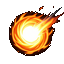
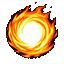
deploy: 26ce8c5fc82ace93dfbd7efdbb642328b0fd8cad

diff --git a/game.js b/game.js
@@ -3445,7 +3445,7 @@
       const finalDmg = Math.max(1, Math.round(dmg * resist));
       mb.bossHp -= finalDmg;
       // Projektil
-      spawnProjectileEffect(null, false, false, ATTACK_TYPES.CASTER, schoolId);
+      spawnProjectileEffect(null, false, false, ATTACK_TYPES.CASTER, spellId);
       const dmgEl = $('mbDamageText');
       if (dmgEl) {
         dmgEl.textContent = `${school} -${finalDmg}`;
@@ -4303,7 +4303,7 @@
     return { c1:'#bbb', c2:'#aaa', rgb:'187,187,187' };
   }
 
-  function spawnProjectileEffect(dir, targetIsPlayer, isCrit, attackType, schoolId) {
+  function spawnProjectileEffect(dir, targetIsPlayer, isCrit, attackType, spellId) {
     const arena = $('mbArena');
     if (!arena) return;
     const rect = arena.getBoundingClientRect();
@@ -4335,17 +4335,21 @@
     const schoolColor = getSchoolColors(targetIsPlayer);
     const rgb = schoolColor.rgb;
 
-    // Vybrat PNG projektil podle schoolId
+    // Vybrat PNG projektil podle spellId
     let projImg = 'arcane.png';
     if (targetIsPlayer && attackType === ATTACK_TYPES.CASTER) {
       projImg = 'shadow.png'; // nepřátelský caster = shadow
     } else if (!targetIsPlayer) {
-      // Hráčův projektil — podle schoolId parametru
-      if (schoolId === 'fire') projImg = 'fireball.png';
-      else if (schoolId === 'ice') projImg = 'frostbolt.png';
-      else if (schoolId === 'lightning') projImg = 'lightning.png';
-      else if (schoolId === 'nature') projImg = 'nature.png';
-      else if (schoolId === 'physical') projImg = 'lightning.png';
+      // Hráčův projektil — podle spellId
+      if (spellId === 'firebolt') projImg = 'firebolt.png';
+      else if (spellId === 'fireball') projImg = 'fireball.png';
+      else if (spellId === 'fireblast') projImg = 'fireblast.png';
+      else if (spellId === 'icebolt') projImg = 'icebolt.png';
+      else if (spellId === 'frostbolt') projImg = 'frostbolt.png';
+      else if (spellId === 'blizzard') projImg = 'blizzard.png';
+      else if (spellId === 'lightningBolt') projImg = 'lightningBolt.png';
+      else if (spellId === 'chainLightning') projImg = 'chainLightning.png';
+      else if (spellId === 'thunderStorm') projImg = 'thunderStorm.png';
     }
 
     const size = isCrit ? 48 : 36;

diff --git a/sw.js b/sw.js
@@ -79,6 +79,10 @@ const ASSET_FILES = [
   '/assets/projectiles/fireball.png', '/assets/projectiles/frostbolt.png',
   '/assets/projectiles/shadow.png', '/assets/projectiles/nature.png',
   '/assets/projectiles/lightning.png', '/assets/projectiles/arcane.png',
+  '/assets/projectiles/firebolt.png', '/assets/projectiles/fireblast.png',
+  '/assets/projectiles/icebolt.png', '/assets/projectiles/blizzard.png',
+  '/assets/projectiles/lightningBolt.png', '/assets/projectiles/chainLightning.png',
+  '/assets/projectiles/thunderStorm.png',
   '/assets/result_win.png', '/assets/result_defeat.png',
   '/assets/items/belt_cloth.png', '/assets/items/belt_leather.png',
   '/assets/items/belt_iron.png', '/assets/items/belt_steel.png',
